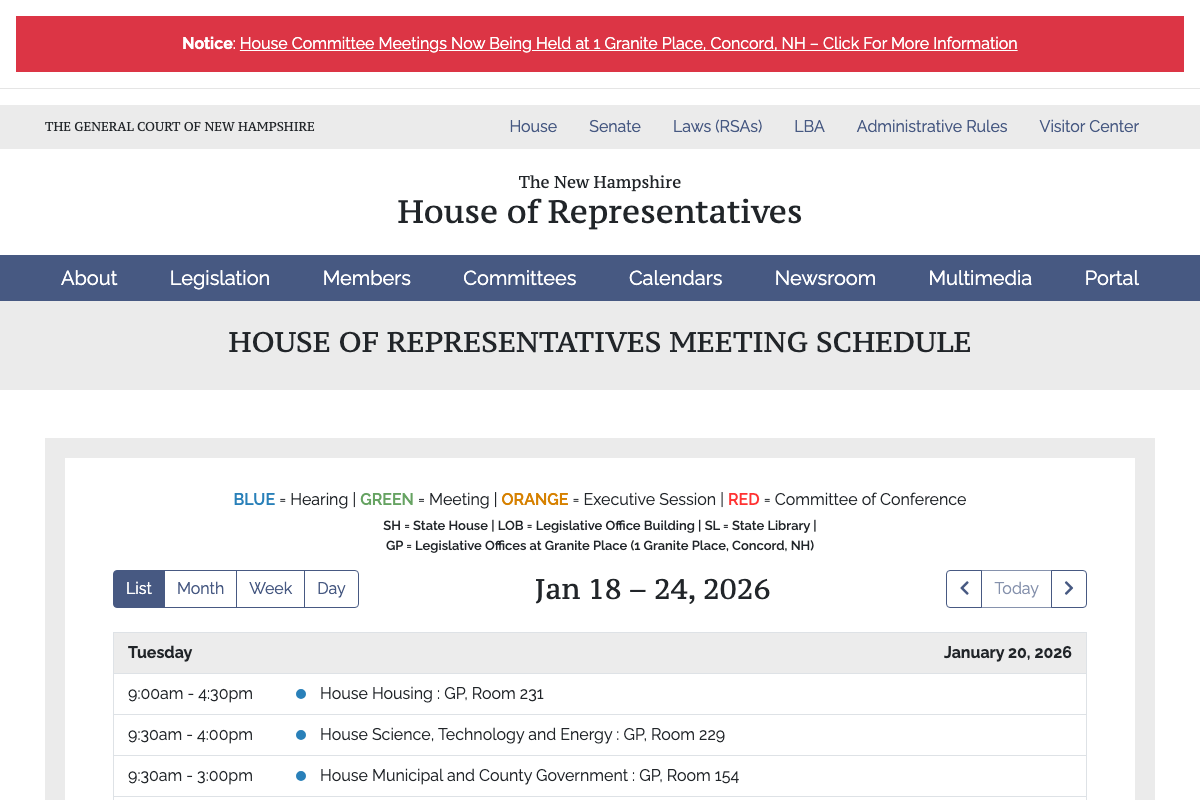
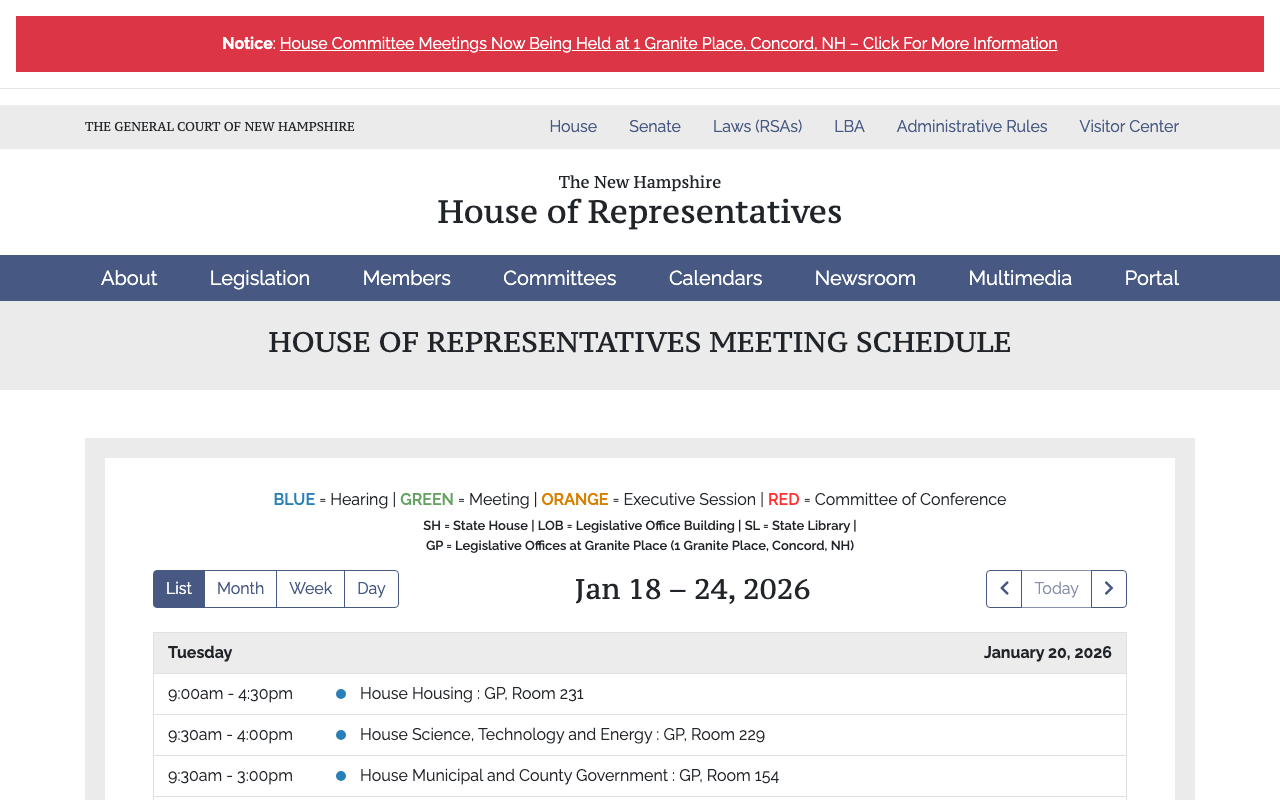
Overcoming my inability to read simple instructions

diff --git a/scripts/capture-screenshot.js b/scripts/capture-screenshot.js
@@ -1,11 +1,20 @@
 const { chromium } = require('playwright');
 
 (async () => {
+  // Get image type from command line argument, default to 'jpeg'
+  const imageType = process.argv[2] || 'png';
+
+  // Validate image type
+  if (imageType !== 'png' && imageType !== 'jpeg') {
+    console.error('Error: imageType must be either "png" or "jpeg"');
+    process.exit(1);
+  }
+
   const browser = await chromium.launch({
     headless: true
   });
   const context = await browser.newContext({
-    viewport: { width: 1200, height: 800 },
+    viewport: { width: 1280, height: 800 },
     userAgent: 'Mozilla/5.0 (Macintosh; Intel Mac OS X 10_15_7) AppleWebKit/537.36 (KHTML, like Gecko) Chrome/131.0.0.0 Safari/537.36',
     locale: 'en-US',
     timezoneId: 'America/New_York'
@@ -20,14 +29,14 @@ const { chromium } = require('playwright');
   // Wait a moment for dynamic content
   await page.waitForTimeout(2000);
 
-  // Take screenshot as 24-bit PNG (no alpha channel)
+  // Take screenshot
   await page.screenshot({
-    path: 'screenshot.png',
-    type: 'png',
+    path: `screenshot.${imageType}`,
+    type: imageType,
     omitBackground: false
   });
 
-  console.log('Screenshot saved to screenshot.png');
+  console.log(`Screenshot saved to screenshot.${imageType}`);
 
   await browser.close();
 })();

diff --git a/README.md b/README.md
@@ -168,7 +168,19 @@ The project includes a Playwright-based script for capturing screenshots of the 
 **Command:**
 
 ```bash
-npm run screenshot
+npm run screenshot [imageType]
+```
+
+**Parameters:**
+
+- `imageType` (optional): Image format, either `png` or `jpeg`. Defaults to `jpeg` if not specified.
+
+**Examples:**
+
+```bash
+npm run screenshot          # Saves as screenshot.jpeg (default)
+npm run screenshot png      # Saves as screenshot.png
+npm run screenshot jpeg     # Saves as screenshot.jpeg
 ```
 
 **What it does:**
@@ -177,8 +189,8 @@ npm run screenshot
 - Sets viewport to 1200x800 pixels
 - Uses a Chrome user agent string to avoid bot detection
 - Navigates to <https://gc.nh.gov/house/schedule/dailyschedule.aspx>
-- Captures a 24-bit PNG screenshot (no alpha channel) compatible with Chrome Web Store requirements
-- Saves the screenshot as `screenshot.png` in the project root
+- Captures a screenshot in the specified format (PNG or JPEG)
+- Saves the screenshot as `screenshot.png` or `screenshot.jpeg` in the project root
 
 ### Package for Distribution
 
